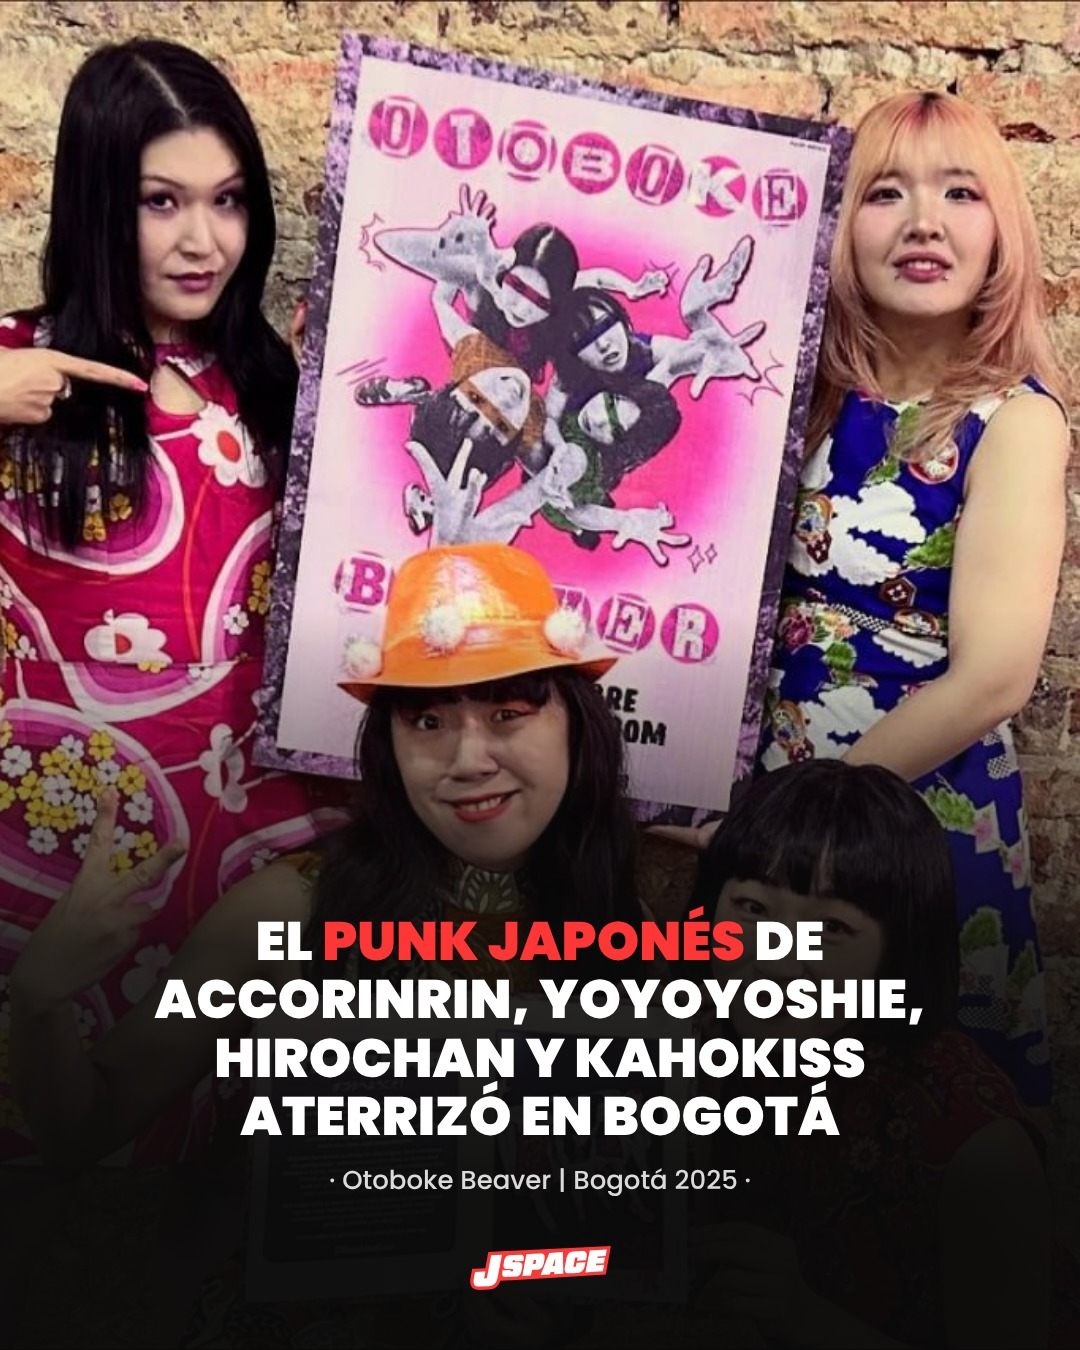
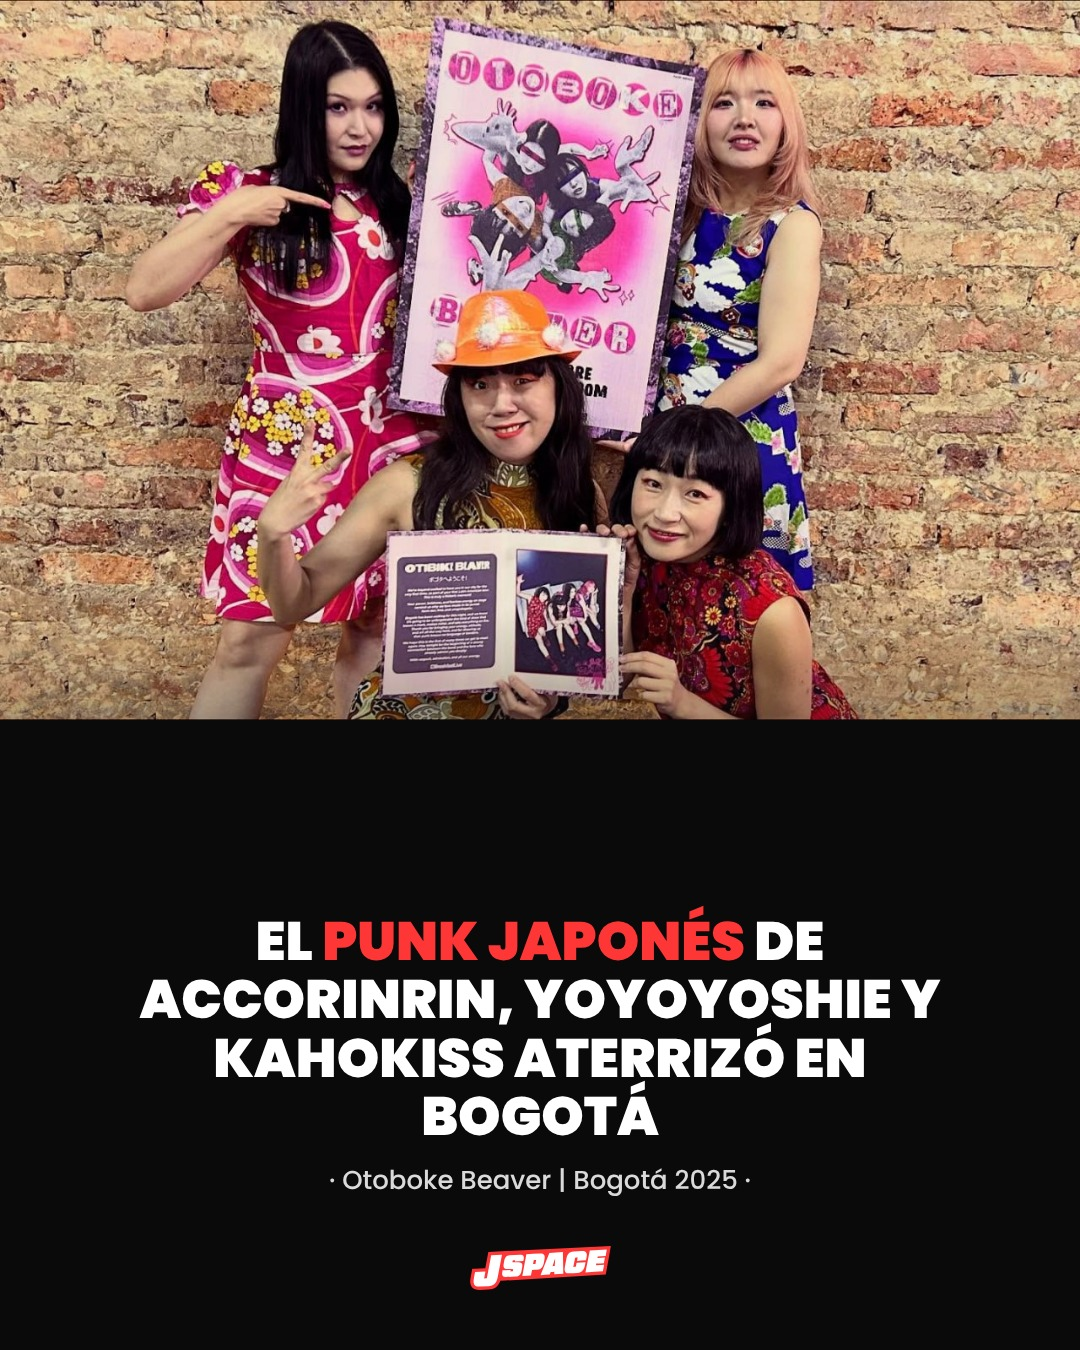
Telegram: Otoboke slide 3 sin Hirochan, fotos enteras (caber)
Claude-Session: https://claude.ai/code/session_011K3BAw8y4d2GNKa8c7muUz

diff --git a/plantilla/noticia.html b/plantilla/noticia.html
@@ -104,6 +104,8 @@
     // opcionalmente una fila de círculos con personajes o portadas, y el logo pequeño al pie
     const f = el('div', 'foto', { left: '0', top: '0', width: W + 'px', height: H + 'px' });
     const im = document.createElement('img'); im.src = src(S.imagen); im.style.objectPosition = S.encuadre || '50% 30%'; f.appendChild(im);
+    // caber: la foto entera (sin recortar caras) arriba y el resto en negro con degradado para el texto
+    if (S.caber) { f.style.background = '#0A0A0A'; im.style.objectFit = 'contain'; im.style.objectPosition = '50% ' + (S.caber === true ? '0%' : S.caber); }
     el('div', 'abs', { left: '0', top: '0', width: W + 'px', height: H + 'px',
       background: `linear-gradient(180deg, rgba(10,10,10,0) 45%, rgba(10,10,10,${0.85 * (S.sombra ?? 1)}) 70%, rgba(10,10,10,${0.97 * (S.sombra ?? 1)}) 88%)` });
     const bl = [];
